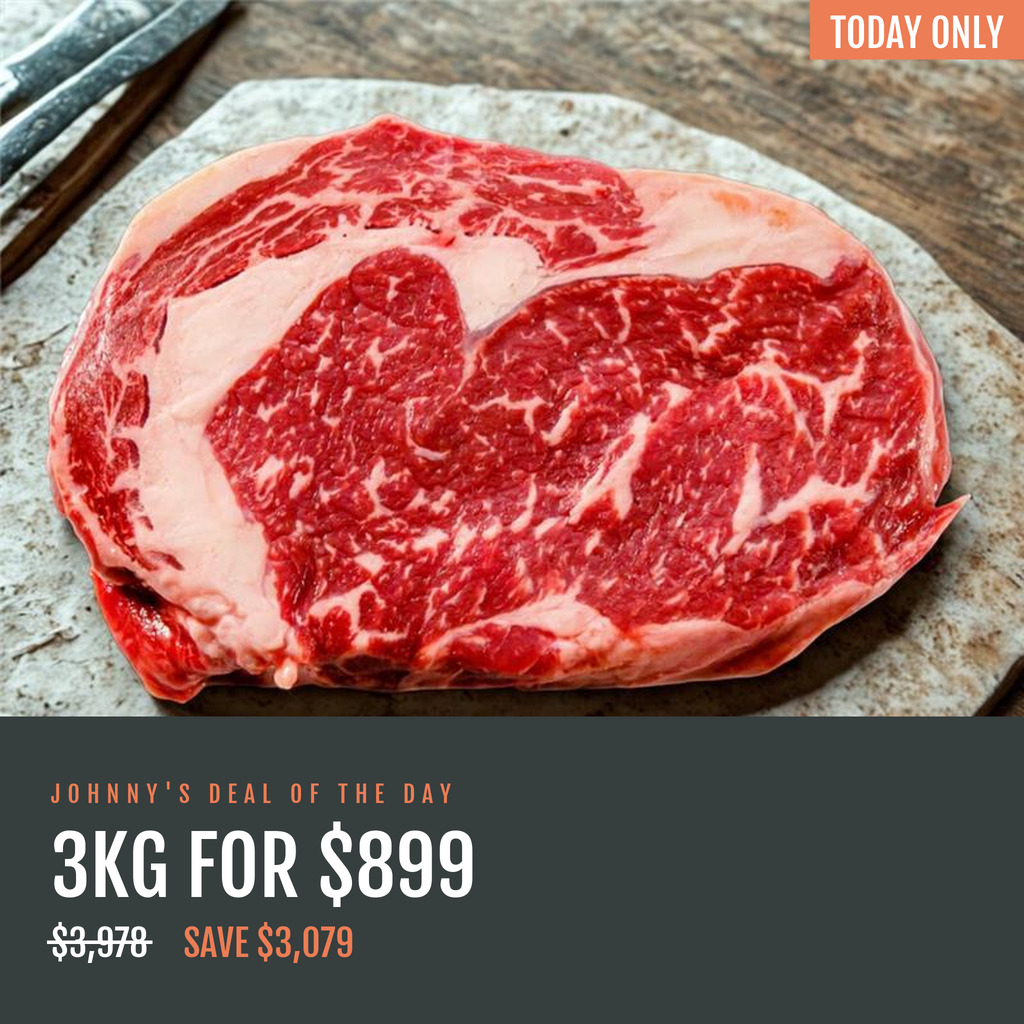
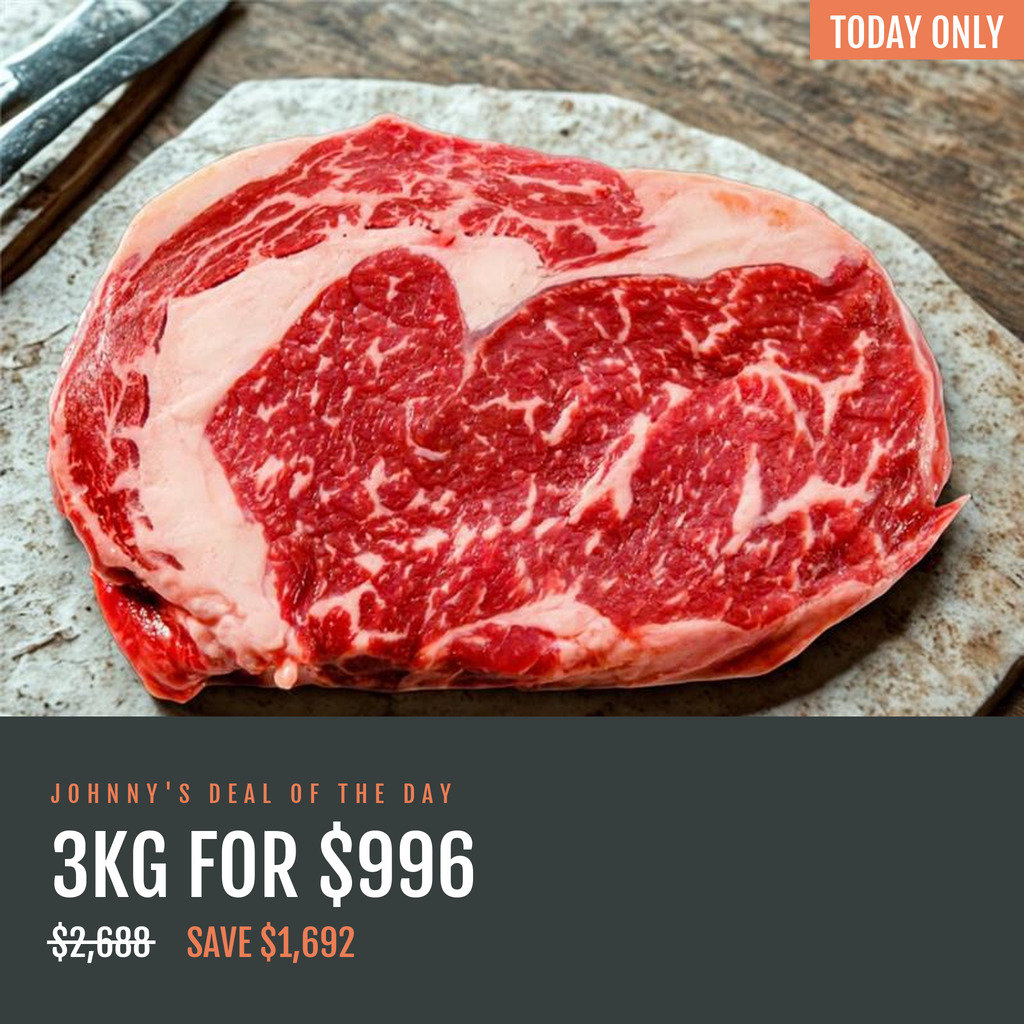
Fix: the $996 belongs to the wagyu 3kg, not the USDA buy-2-get-1
David's note came with the ribeye buy-2-get-1 creative attached, but the
deal he actually put live is the Rangers Station Wagyu M3-4 Ribeye 3kg at
$996 against a $2,688 compare. That is the planner's wagyu-3kg record.

Moves $996 / $2,688 onto wagyu-3kg (was $899 / $3,978, so 62% off not 77%,
$332/kg, 37% margin) and puts ribeye-b2g1f back to $896 with its open A/B
flag restored. Both badges rebuilt.

Changed region(s): [[0.0625, 0.9062, 0.3438, 0.9375], [0.3438, 0.8125, 0.4688, 0.875]]

diff --git a/steak-king/johnnys-deal-planner.html b/steak-king/johnnys-deal-planner.html
@@ -468,16 +468,16 @@ const PLAN = {
           sell:"Certified organic and grass fed, so it's leaner than the grain fed stuff and tastes more like beef. Don't cook it slow. Hot pan, quick sear, then leave it alone for five minutes before you cut into it."}, source:'Chilled Organic Grass Fed Angus Striploin 1kg', banner:['BUY 1KG GET 2ND 50% OFF on Organic Striploin'], clone:'Buy 1kg Organic Angus Striploin, Get the 2nd Half Price — 2kg $735', price:'$735', compare:'$1,960'}
       },
       '2026-08-06':{
-        id:'wagyu-3kg', title:'3kg of Wagyu Ribeye for $899', mech:'Quantity Flash', tag:'proven',
+        id:'wagyu-3kg', title:'3kg of Wagyu Ribeye for $996', mech:'Quantity Flash', tag:'proven',
         img:IMG('files/RSM3-4Ribeye_beecdb4f-4ca6-433f-a4fb-9fb360a8e1be.jpg'),
-        price:'3kg for $899', vs:'Chilled Wagyu M3-4 Ribeye · $300/kg vs $398/kg everyday', margin:'30% margin',
+        price:'3kg for $996', vs:'Chilled Wagyu M3-4 Ribeye · $332/kg vs $398/kg everyday', margin:'37% margin',
         lines:[['Stock','4,579 units — the biggest beef overhang on the account.']],
         why:'This is the SKU the programme exists for. Four and a half thousand units will not clear on browse traffic, and one deal day will not touch it — so it runs twice, here and again on the 18th. Thursday is the right slot: enough base to matter, not so much that we are spending a peak day on inventory work.',
-        build:{desc:{hook:"THREE KILOS OF WAGYU. $899 TODAY.",
-          value:["RRP $3,978. You're $3,079 up.",
-                 "$300 a kilo.",
+        build:{desc:{hook:"THREE KILOS OF WAGYU. $996 TODAY.",
+          value:["RRP $2,688. You're $1,692 up.",
+                 "$332 a kilo.",
                  "Price goes back at midnight."],
-          sell:"M3-4 is where the marbling starts to show. Enough fat running through it to keep itself basted, not so much that one steak finishes you off. Three separate kilos, so you don't have to cook it all at once."}, source:'Chilled Wagyu M3-4 Ribeye 1kg', banner:['77% OFF 3kg of Wagyu M3-4 Ribeye'], clone:'3kg of Wagyu M3-4 Ribeye — $899 Today Only', price:'$899', compare:'$3,978'}
+          sell:"M3-4 is where the marbling starts to show. Enough fat running through it to keep itself basted, not so much that one steak finishes you off. Three separate kilos, so you don't have to cook it all at once."}, source:'Chilled Wagyu M3-4 Ribeye 1kg', banner:['62% OFF 3kg of Wagyu M3-4 Ribeye'], clone:'3kg of Wagyu M3-4 Ribeye — $996 Today Only', price:'$996', compare:'$2,688'}
       },
       '2026-08-07':{
         id:'picanha', title:'The Whole Picanha, 2.1kg for $899', mech:'Price Drop · Story',
@@ -494,15 +494,15 @@ const PLAN = {
       '2026-08-08':{
         id:'ribeye-b2g1f', title:'Buy 2kg of Ribeye, Get the Third Kilo Free', mech:'Buy 2, Get 1 Free',
         img:IMG('files/USDAChoiceRibeye2.jpg'),
-        price:'3kg for $996', vs:'USDA Choice Ribeye · buy 2kg, get 1kg free · $332/kg vs $448/kg', margin:'38% margin',
+        price:'3kg for $896', vs:'USDA Choice Ribeye · buy 2kg, get 1kg free · $299/kg vs $448/kg', margin:'31% margin',
         lines:[['Stock','1,240 units.']],
-        why:'Buy-two-get-one-free was the weakest of the three July tests at 2.5×, but it ran on the hanger — a cut with a fraction of this one\'s demand. Same cut, five days after the 3 Aug flash, and now within $4 of it: the flash opens at $1,000, this lands at $996. Price is held, so whatever moves on the day is the mechanic on its own — the paired read the July test never got.',
-        flag:'Settled — David took the price up to $996 on 7 Aug, which is the $1,000 option and restores the paired mechanic read against the 3 Aug flash. Shopify draft <em>USDA Choice Ribeye · buy 2kg, get 1kg free</em> still sits at $896 and has to be moved to $996 before this goes live.',
+        why:'Buy-two-get-one-free was the weakest of the three July tests at 2.5×, but it ran on the hanger — a cut with a fraction of this one\'s demand. Same cut, five days after the 3 Aug flash. The clean read is gone — the flash now opens at $1,000 and this lands at $896, so any difference on the day is price and mechanic together, not mechanic alone.',
+        flag:'The 3 Aug price change broke the A/B. To recover a clean mechanic read, either move this to $1,000 (buy 2kg at $500/kg, get the third free) or accept it as a standalone offer and re-run the paired test in September. Hani\'s call, needs David\'s.',
         build:{desc:{hook:"BUY TWO KILOS. THE THIRD ONE'S FREE.",
-          value:["Three kilos for $996. RRP $2,688.",
-                 "$332 a kilo.",
+          value:["Three kilos for $896. RRP $2,688.",
+                 "$299 a kilo.",
                  "Today only."],
-          sell:"Same USDA Choice ribeye we sell all year. Well marbled, cut thick, difficult to get wrong. Three separate kilos, so freeze whatever you're not using tonight."}, source:'Chilled USDA Choice Ribeye 1kg', banner:['BUY 2KG GET 1KG FREE on USDA Choice Ribeye'], clone:'Buy 2kg USDA Choice Ribeye, Get the 3rd Kilo Free — 3kg $996', price:'$996', compare:'$2,688'}
+          sell:"Same USDA Choice ribeye we sell all year. Well marbled, cut thick, difficult to get wrong. Three separate kilos, so freeze whatever you're not using tonight."}, source:'Chilled USDA Choice Ribeye 1kg', banner:['BUY 2KG GET 1KG FREE on USDA Choice Ribeye'], clone:'Buy 2kg USDA Choice Ribeye, Get the 3rd Kilo Free — 3kg $896', price:'$896', compare:'$2,688'}
       },
       '2026-08-09':{
         id:'sunday-roast', title:'A 2.5kg Leg of Lamb for $749', mech:'Price Drop · New Category', tag:'new',
